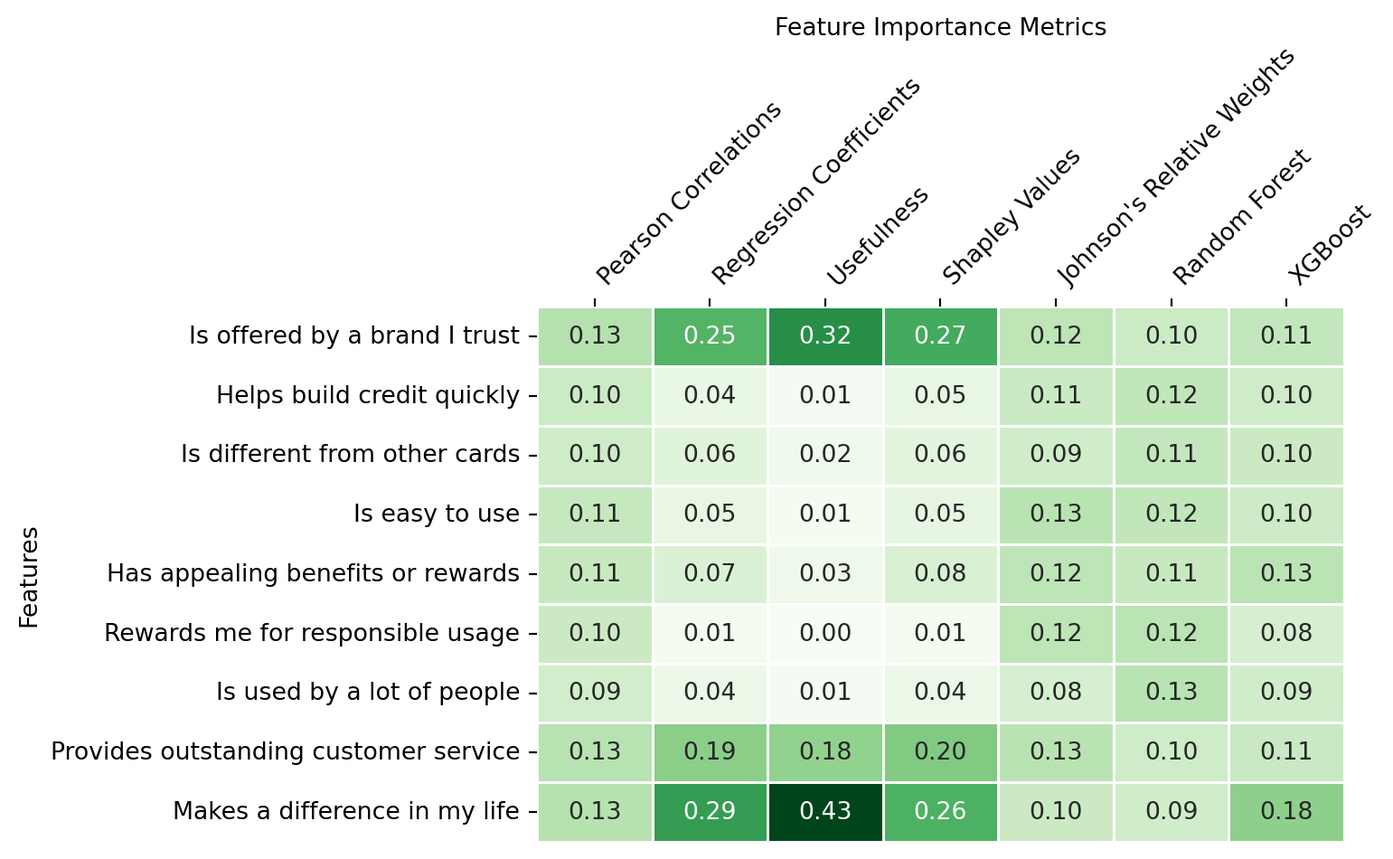
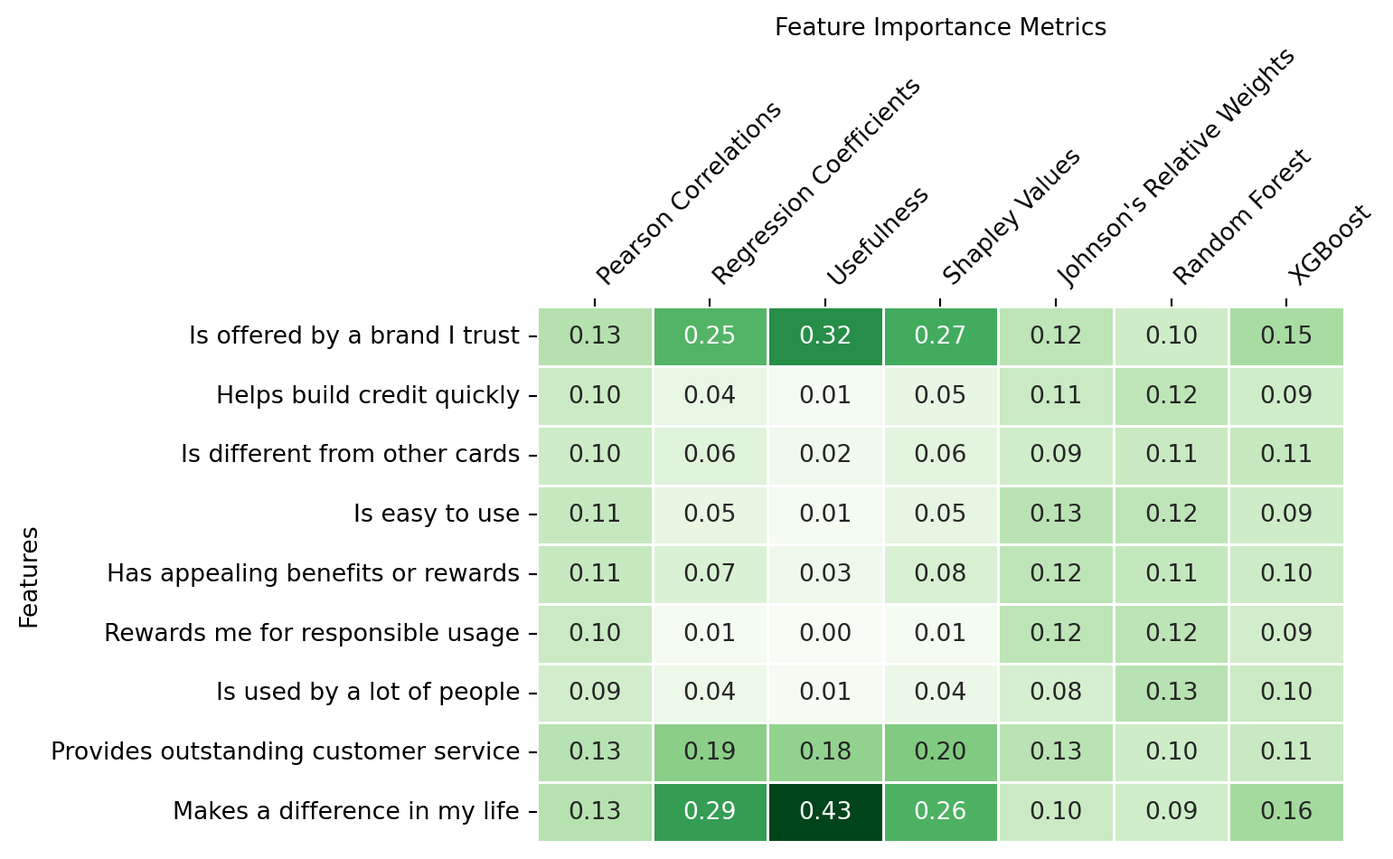
HW4 Refactoring

Changed region(s): [[0.8722, 0.3358, 0.9656, 0.4274], [0.9033, 0.7937, 0.9345, 0.8242], [0.9033, 0.58, 0.9345, 0.6105]]

diff --git a/docs/projects/project4/index.html b/docs/projects/project4/index.html
@@ -7,7 +7,7 @@
 <meta name="viewport" content="width=device-width, initial-scale=1.0, user-scalable=yes">
 
 <meta name="author" content="Robin Reese">
-<meta name="dcterms.date" content="2024-05-26">
+<meta name="dcterms.date" content="2024-05-29">
 
 <title>Robin Reese - Variable Importance</title>
 <style>
@@ -176,7 +176,7 @@ pre > code.sourceCode > span > a:first-child::before { text-decoration: underlin
     <div>
     <div class="quarto-title-meta-heading">Published</div>
     <div class="quarto-title-meta-contents">
-      <p class="date">May 26, 2024</p>
+      <p class="date">May 29, 2024</p>
     </div>
   </div>
   
@@ -191,23 +191,24 @@ pre > code.sourceCode > span > a:first-child::before { text-decoration: underlin
 <p>Variable, or feature, importance in data anyltics refers to a set of metrics that indicate how important different predicitors are in contributing to the accuracy of a predictive model. Variable importance allows for (1) model simplification, (2) interpretability, and (3) eventual resouce allocation if the model is taken to an operational setting.</p>
 <p>Today we’ll look at survey data regarding features of credit cards. Our goal is to measure variable importance in a number of different ways in order to better interpret how certain features of the credit cards influence overall customer satisfaction. To accomplish this we’ll calculate and compare Pearson correlations, regression coefficients, “usefullness”, Shapley values, Johnson’s relative weights, the mean decrease in the gini coefficient from a random forest, and XGBoost feature importance.</p>
 <p>The first step, as always, is to import the various libraries needed and load the dataset.</p>
-<div id="2a210766" class="cell" data-execution_count="1">
+<div id="c12a789f" class="cell" data-execution_count="1">
 <div class="sourceCode cell-code" id="cb1"><pre class="sourceCode python code-with-copy"><code class="sourceCode python"><span id="cb1-1"><a href="#cb1-1" aria-hidden="true" tabindex="-1"></a><span class="co"># Imports</span></span>
 <span id="cb1-2"><a href="#cb1-2" aria-hidden="true" tabindex="-1"></a><span class="im">import</span> pandas <span class="im">as</span> pd</span>
 <span id="cb1-3"><a href="#cb1-3" aria-hidden="true" tabindex="-1"></a><span class="im">import</span> numpy <span class="im">as</span> np</span>
 <span id="cb1-4"><a href="#cb1-4" aria-hidden="true" tabindex="-1"></a><span class="im">from</span> sklearn.linear_model <span class="im">import</span> LinearRegression</span>
 <span id="cb1-5"><a href="#cb1-5" aria-hidden="true" tabindex="-1"></a><span class="im">from</span> sklearn.preprocessing <span class="im">import</span> StandardScaler</span>
-<span id="cb1-6"><a href="#cb1-6" aria-hidden="true" tabindex="-1"></a><span class="im">from</span> sklearn.ensemble <span class="im">import</span> RandomForestClassifier</span>
-<span id="cb1-7"><a href="#cb1-7" aria-hidden="true" tabindex="-1"></a><span class="im">from</span> xgboost <span class="im">import</span> XGBClassifier</span>
-<span id="cb1-8"><a href="#cb1-8" aria-hidden="true" tabindex="-1"></a><span class="im">from</span> sklearn.model_selection <span class="im">import</span> train_test_split</span>
-<span id="cb1-9"><a href="#cb1-9" aria-hidden="true" tabindex="-1"></a><span class="im">import</span> statsmodels.api <span class="im">as</span> sm</span>
-<span id="cb1-10"><a href="#cb1-10" aria-hidden="true" tabindex="-1"></a><span class="im">import</span> shap</span>
-<span id="cb1-11"><a href="#cb1-11" aria-hidden="true" tabindex="-1"></a><span class="im">import</span> seaborn <span class="im">as</span> sns</span>
-<span id="cb1-12"><a href="#cb1-12" aria-hidden="true" tabindex="-1"></a><span class="im">import</span> matplotlib.pyplot <span class="im">as</span> plt</span>
-<span id="cb1-13"><a href="#cb1-13" aria-hidden="true" tabindex="-1"></a></span>
-<span id="cb1-14"><a href="#cb1-14" aria-hidden="true" tabindex="-1"></a><span class="co"># Load the data</span></span>
-<span id="cb1-15"><a href="#cb1-15" aria-hidden="true" tabindex="-1"></a>data <span class="op">=</span> pd.read_csv(<span class="st">'data_for_drivers_analysis.csv'</span>)</span>
-<span id="cb1-16"><a href="#cb1-16" aria-hidden="true" tabindex="-1"></a>data.head()</span></code><button title="Copy to Clipboard" class="code-copy-button"><i class="bi"></i></button></pre></div>
+<span id="cb1-6"><a href="#cb1-6" aria-hidden="true" tabindex="-1"></a><span class="im">from</span> sklearn.tree <span class="im">import</span> DecisionTreeRegressor</span>
+<span id="cb1-7"><a href="#cb1-7" aria-hidden="true" tabindex="-1"></a><span class="im">from</span> sklearn.ensemble <span class="im">import</span> RandomForestClassifier</span>
+<span id="cb1-8"><a href="#cb1-8" aria-hidden="true" tabindex="-1"></a><span class="im">from</span> xgboost <span class="im">import</span> XGBClassifier</span>
+<span id="cb1-9"><a href="#cb1-9" aria-hidden="true" tabindex="-1"></a><span class="im">from</span> sklearn.model_selection <span class="im">import</span> train_test_split</span>
+<span id="cb1-10"><a href="#cb1-10" aria-hidden="true" tabindex="-1"></a><span class="im">import</span> statsmodels.api <span class="im">as</span> sm</span>
+<span id="cb1-11"><a href="#cb1-11" aria-hidden="true" tabindex="-1"></a><span class="im">import</span> shap</span>
+<span id="cb1-12"><a href="#cb1-12" aria-hidden="true" tabindex="-1"></a><span class="im">import</span> seaborn <span class="im">as</span> sns</span>
+<span id="cb1-13"><a href="#cb1-13" aria-hidden="true" tabindex="-1"></a><span class="im">import</span> matplotlib.pyplot <span class="im">as</span> plt</span>
+<span id="cb1-14"><a href="#cb1-14" aria-hidden="true" tabindex="-1"></a></span>
+<span id="cb1-15"><a href="#cb1-15" aria-hidden="true" tabindex="-1"></a><span class="co"># Load the data</span></span>
+<span id="cb1-16"><a href="#cb1-16" aria-hidden="true" tabindex="-1"></a>data <span class="op">=</span> pd.read_csv(<span class="st">'data_for_drivers_analysis.csv'</span>)</span>
+<span id="cb1-17"><a href="#cb1-17" aria-hidden="true" tabindex="-1"></a>data.head()</span></code><button title="Copy to Clipboard" class="code-copy-button"><i class="bi"></i></button></pre></div>
 <div class="cell-output cell-output-display" data-execution_count="1">
 <div>
 
@@ -312,7 +313,7 @@ pre > code.sourceCode > span > a:first-child::before { text-decoration: underlin
 </div>
 </div>
 </div>
-<div id="cdf86e0f" class="cell" data-execution_count="2">
+<div id="fc234c03" class="cell" data-execution_count="2">
 <div class="sourceCode cell-code" id="cb2"><pre class="sourceCode python code-with-copy"><code class="sourceCode python"><span id="cb2-1"><a href="#cb2-1" aria-hidden="true" tabindex="-1"></a><span class="bu">print</span>(data.shape)</span>
 <span id="cb2-2"><a href="#cb2-2" aria-hidden="true" tabindex="-1"></a><span class="bu">print</span>(data.dtypes)</span>
 <span id="cb2-3"><a href="#cb2-3" aria-hidden="true" tabindex="-1"></a><span class="bu">print</span>(data.nunique())</span></code><button title="Copy to Clipboard" class="code-copy-button"><i class="bi"></i></button></pre></div>
@@ -359,7 +360,7 @@ dtype: int64</code></pre>
 <li>Makes a difference in my life</li>
 </ul>
 <p>In order to analyze the data we’ll separate the X and y variables. X will be the various features with binary outcomes wheras y is the dependent variable, satisfaction.</p>
-<div id="d5263a97" class="cell" data-execution_count="3">
+<div id="62f5cea0" class="cell" data-execution_count="3">
 <div class="sourceCode cell-code" id="cb4"><pre class="sourceCode python code-with-copy"><code class="sourceCode python"><span id="cb4-1"><a href="#cb4-1" aria-hidden="true" tabindex="-1"></a><span class="co"># Define the binary columns and the target column</span></span>
 <span id="cb4-2"><a href="#cb4-2" aria-hidden="true" tabindex="-1"></a>binary_columns <span class="op">=</span> [<span class="st">'trust'</span>, <span class="st">'build'</span>, <span class="st">'differs'</span>, <span class="st">'easy'</span>, <span class="st">'appealing'</span>, <span class="st">'rewarding'</span>, <span class="st">'popular'</span>, <span class="st">'service'</span>, <span class="st">'impact'</span>]</span>
 <span id="cb4-3"><a href="#cb4-3" aria-hidden="true" tabindex="-1"></a>target_column <span class="op">=</span> <span class="st">'satisfaction'</span></span>
@@ -368,7 +369,10 @@ dtype: int64</code></pre>
 <span id="cb4-6"><a href="#cb4-6" aria-hidden="true" tabindex="-1"></a>y <span class="op">=</span> data[target_column]</span>
 <span id="cb4-7"><a href="#cb4-7" aria-hidden="true" tabindex="-1"></a></span>
 <span id="cb4-8"><a href="#cb4-8" aria-hidden="true" tabindex="-1"></a><span class="co"># Adding constant for regression model in statsmodels</span></span>
-<span id="cb4-9"><a href="#cb4-9" aria-hidden="true" tabindex="-1"></a>X_const <span class="op">=</span> sm.add_constant(X)</span></code><button title="Copy to Clipboard" class="code-copy-button"><i class="bi"></i></button></pre></div>
+<span id="cb4-9"><a href="#cb4-9" aria-hidden="true" tabindex="-1"></a>X_const <span class="op">=</span> sm.add_constant(X)</span>
+<span id="cb4-10"><a href="#cb4-10" aria-hidden="true" tabindex="-1"></a></span>
+<span id="cb4-11"><a href="#cb4-11" aria-hidden="true" tabindex="-1"></a><span class="co"># Creating the test and train sets</span></span>
+<span id="cb4-12"><a href="#cb4-12" aria-hidden="true" tabindex="-1"></a>X_train, X_test, y_train, y_test <span class="op">=</span> train_test_split(X, y, test_size<span class="op">=</span><span class="fl">0.2</span>, random_state<span class="op">=</span><span class="dv">42</span>)</span></code><button title="Copy to Clipboard" class="code-copy-button"><i class="bi"></i></button></pre></div>
 </div>
 <section id="pearson-correlation" class="level4">
 <h4 class="anchored" data-anchor-id="pearson-correlation">Pearson Correlation</h4>
@@ -376,7 +380,7 @@ dtype: int64</code></pre>
 r = \frac{\sum (X - \bar{X})(Y - \bar{Y})}{\sqrt{\sum (X - \bar{X})^2 \sum (Y - \bar{Y})^2}}
 \]</span></p>
 <p>Pearson correlation measures the linear correlation between each independent variable and the target variable. A Pearson correlation coefficient ranges from -1 to +1, where +1 indicates a perfect positive linear relationship, -1 indicates a perfect negative linear relationship, and 0 indicates no linear relationship. This method is straightforward and widely used for preliminary analysis to gauge linear associations but does not capture non-linear relationships or interactions between features.</p>
-<div id="ee67fbe2" class="cell" data-execution_count="4">
+<div id="6a120d0e" class="cell" data-execution_count="4">
 <div class="sourceCode cell-code" id="cb5"><pre class="sourceCode python code-with-copy"><code class="sourceCode python"><span id="cb5-1"><a href="#cb5-1" aria-hidden="true" tabindex="-1"></a><span class="co"># Pearson Correlations</span></span>
 <span id="cb5-2"><a href="#cb5-2" aria-hidden="true" tabindex="-1"></a>pearson_corr <span class="op">=</span> X.<span class="bu">apply</span>(<span class="kw">lambda</span> x: x.corr(data[target_column]))</span></code><button title="Copy to Clipboard" class="code-copy-button"><i class="bi"></i></button></pre></div>
 </div>
@@ -388,7 +392,7 @@ r = \frac{\sum (X - \bar{X})(Y - \bar{Y})}{\sqrt{\sum (X - \bar{X})^2 \sum (Y - 
 Y = \beta_0 + \beta_1 X_1 + \beta_2 X_2 + \cdots + \beta_n X_n + \epsilon
 \]</span></p>
 <p>Derived from fitting a linear regression model, these coefficients quantify the expected change in the target variable for a one-unit change in the predictor variable, assuming other variables are held constant. Regression coefficients are useful for understanding the direct impact of each predictor in a linear context. However, like Pearson correlations, it’s limited to linear effects and may be misleading in the presence of multicollinearity.</p>
-<div id="16bed5d1" class="cell" data-execution_count="5">
+<div id="b101db36" class="cell" data-execution_count="5">
 <div class="sourceCode cell-code" id="cb6"><pre class="sourceCode python code-with-copy"><code class="sourceCode python"><span id="cb6-1"><a href="#cb6-1" aria-hidden="true" tabindex="-1"></a><span class="co"># Linear Regression for regression coefficients</span></span>
 <span id="cb6-2"><a href="#cb6-2" aria-hidden="true" tabindex="-1"></a>model <span class="op">=</span> sm.OLS(y, X_const).fit()</span>
 <span id="cb6-3"><a href="#cb6-3" aria-hidden="true" tabindex="-1"></a>regression_coefficients <span class="op">=</span> model.params.drop(<span class="st">'const'</span>)</span></code><button title="Copy to Clipboard" class="code-copy-button"><i class="bi"></i></button></pre></div>
@@ -400,7 +404,7 @@ Y = \beta_0 + \beta_1 X_1 + \beta_2 X_2 + \cdots + \beta_n X_n + \epsilon
 \text{Usefulness}_j = R^2_{\text{full model}} - R^2_{\text{model without } X_j}
 \]</span></p>
 <p>The concept of “usefulness” in the context of regression analysis is a method of quantifying the importance of each predictor variable by evaluating the impact of removing each variable from the model. It measures how much the overall model’s explanatory power, typically quantified by the 𝑅^2 value, decreases when a specific feature is omitted.</p>
-<div id="2c9182ea" class="cell" data-execution_count="6">
+<div id="87b9c1d5" class="cell" data-execution_count="6">
 <div class="sourceCode cell-code" id="cb7"><pre class="sourceCode python code-with-copy"><code class="sourceCode python"><span id="cb7-1"><a href="#cb7-1" aria-hidden="true" tabindex="-1"></a><span class="co"># Calculate changes in R² (usefulness)</span></span>
 <span id="cb7-2"><a href="#cb7-2" aria-hidden="true" tabindex="-1"></a>full_r_squared <span class="op">=</span> model.rsquared</span>
 <span id="cb7-3"><a href="#cb7-3" aria-hidden="true" tabindex="-1"></a>usefulness <span class="op">=</span> {}</span>
@@ -416,7 +420,7 @@ Y = \beta_0 + \beta_1 X_1 + \beta_2 X_2 + \cdots + \beta_n X_n + \epsilon
 \phi_i = \sum_{S \subseteq N \setminus \{i\}} \frac{|S|! (|N|-|S|-1)!}{|N|!} (v(S \cup \{i\}) - v(S))
 \]</span> where (S) is a subset of all features except (i), (N) is the set of all features, and (v(S)) is the prediction model output with features in set (S).</p>
 <p>Shapley values measure the contribution of each feature to the prediction of a model at the individual instance level. This method provides a detailed and nuanced explanation of how each feature in a dataset influences the model’s predictions, allowing for a deep understanding of model behavior, which is especially valuable in complex models where interactions and non-linearities are present.</p>
-<div id="b2dd9bd4" class="cell" data-execution_count="7">
+<div id="b83fdfed" class="cell" data-execution_count="7">
 <div class="sourceCode cell-code" id="cb8"><pre class="sourceCode python code-with-copy"><code class="sourceCode python"><span id="cb8-1"><a href="#cb8-1" aria-hidden="true" tabindex="-1"></a><span class="co"># Shapley Values using Linear Regression model</span></span>
 <span id="cb8-2"><a href="#cb8-2" aria-hidden="true" tabindex="-1"></a>model <span class="op">=</span> LinearRegression().fit(X, y)</span>
 <span id="cb8-3"><a href="#cb8-3" aria-hidden="true" tabindex="-1"></a>explainer <span class="op">=</span> shap.Explainer(model, X)</span>
@@ -430,7 +434,7 @@ Y = \beta_0 + \beta_1 X_1 + \beta_2 X_2 + \cdots + \beta_n X_n + \epsilon
 \text{Relative Weights} = \frac{V^2 \times \lambda}{\sum (V^2 \times \lambda)}
 \]</span></p>
 <p>This method involves an eigen decomposition of the correlation matrix of the predictors and calculates the proportionate contribution of each predictor to the R² of a regression model. It effectively parses out each variable’s importance, taking into account multicollinearity.</p>
-<div id="1dadf339" class="cell" data-execution_count="8">
+<div id="6efe6e90" class="cell" data-execution_count="8">
 <div class="sourceCode cell-code" id="cb9"><pre class="sourceCode python code-with-copy"><code class="sourceCode python"><span id="cb9-1"><a href="#cb9-1" aria-hidden="true" tabindex="-1"></a><span class="co"># Johnson's Relative Weights </span></span>
 <span id="cb9-2"><a href="#cb9-2" aria-hidden="true" tabindex="-1"></a>corr_matrix <span class="op">=</span> np.corrcoef(X, rowvar<span class="op">=</span><span class="va">False</span>)</span>
 <span id="cb9-3"><a href="#cb9-3" aria-hidden="true" tabindex="-1"></a>eigenvalues, eigenvectors <span class="op">=</span> np.linalg.eig(corr_matrix)</span>
@@ -445,12 +449,11 @@ Y = \beta_0 + \beta_1 X_1 + \beta_2 X_2 + \cdots + \beta_n X_n + \epsilon
 \text{Importance} = \frac{\text{Total Decrease in Impurity caused by feature } X}{\text{all splits}}
 \]</span></p>
 <p>This method is excellent for capturing non-linear relationships and interactions without any assumptions about data distribution, and it is robust to outliers and scale of features.</p>
-<div id="865a4033" class="cell" data-execution_count="9">
+<div id="25a91cb5" class="cell" data-execution_count="9">
 <div class="sourceCode cell-code" id="cb10"><pre class="sourceCode python code-with-copy"><code class="sourceCode python"><span id="cb10-1"><a href="#cb10-1" aria-hidden="true" tabindex="-1"></a><span class="co"># Random Forest for feature importance</span></span>
-<span id="cb10-2"><a href="#cb10-2" aria-hidden="true" tabindex="-1"></a>X_train, X_test, y_train, y_test <span class="op">=</span> train_test_split(X, y, test_size<span class="op">=</span><span class="fl">0.2</span>, random_state<span class="op">=</span><span class="dv">42</span>)</span>
-<span id="cb10-3"><a href="#cb10-3" aria-hidden="true" tabindex="-1"></a>rf <span class="op">=</span> RandomForestClassifier(n_estimators<span class="op">=</span><span class="dv">1000</span>, random_state<span class="op">=</span><span class="dv">42</span>)</span>
-<span id="cb10-4"><a href="#cb10-4" aria-hidden="true" tabindex="-1"></a>rf.fit(X_train, y_train)</span>
-<span id="cb10-5"><a href="#cb10-5" aria-hidden="true" tabindex="-1"></a>rf_importances <span class="op">=</span> rf.feature_importances_</span></code><button title="Copy to Clipboard" class="code-copy-button"><i class="bi"></i></button></pre></div>
+<span id="cb10-2"><a href="#cb10-2" aria-hidden="true" tabindex="-1"></a>rf <span class="op">=</span> RandomForestClassifier(n_estimators<span class="op">=</span><span class="dv">2500</span>, random_state<span class="op">=</span><span class="dv">42</span>, criterion<span class="op">=</span><span class="st">'gini'</span>)</span>
+<span id="cb10-3"><a href="#cb10-3" aria-hidden="true" tabindex="-1"></a>rf.fit(X, y)</span>
+<span id="cb10-4"><a href="#cb10-4" aria-hidden="true" tabindex="-1"></a>rf_importances <span class="op">=</span> rf.feature_importances_</span></code><button title="Copy to Clipboard" class="code-copy-button"><i class="bi"></i></button></pre></div>
 </div>
 </section>
 <section id="xgboost" class="level4">
@@ -459,16 +462,15 @@ Y = \beta_0 + \beta_1 X_1 + \beta_2 X_2 + \cdots + \beta_n X_n + \epsilon
 \text{Gain} = \frac{\text{Total Gain of splits using feature } X}{\text{all splits using feature } X}
 \]</span></p>
 <p>The importance is computed for each feature at each split in each tree and averaged across all trees.</p>
-<div id="23623e52" class="cell" data-execution_count="10">
+<div id="b8d98c46" class="cell" data-execution_count="10">
 <div class="sourceCode cell-code" id="cb11"><pre class="sourceCode python code-with-copy"><code class="sourceCode python"><span id="cb11-1"><a href="#cb11-1" aria-hidden="true" tabindex="-1"></a><span class="co"># XGBoost Model</span></span>
-<span id="cb11-2"><a href="#cb11-2" aria-hidden="true" tabindex="-1"></a>y_train_adjusted <span class="op">=</span> y_train <span class="op">-</span> <span class="dv">1</span></span>
-<span id="cb11-3"><a href="#cb11-3" aria-hidden="true" tabindex="-1"></a>y_test_adjusted <span class="op">=</span> y_test <span class="op">-</span> <span class="dv">1</span></span>
-<span id="cb11-4"><a href="#cb11-4" aria-hidden="true" tabindex="-1"></a>xgb_model <span class="op">=</span> XGBClassifier(use_label_encoder<span class="op">=</span><span class="va">False</span>, eval_metric<span class="op">=</span><span class="st">'mlogloss'</span>)</span>
-<span id="cb11-5"><a href="#cb11-5" aria-hidden="true" tabindex="-1"></a>xgb_model.fit(X_train, y_train_adjusted)</span>
-<span id="cb11-6"><a href="#cb11-6" aria-hidden="true" tabindex="-1"></a>xgb_importances <span class="op">=</span> xgb_model.feature_importances_</span></code><button title="Copy to Clipboard" class="code-copy-button"><i class="bi"></i></button></pre></div>
+<span id="cb11-2"><a href="#cb11-2" aria-hidden="true" tabindex="-1"></a>y_adjusted <span class="op">=</span> y <span class="op">-</span> <span class="dv">1</span></span>
+<span id="cb11-3"><a href="#cb11-3" aria-hidden="true" tabindex="-1"></a>xgb_model <span class="op">=</span> XGBClassifier(use_label_encoder<span class="op">=</span><span class="va">False</span>, eval_metric<span class="op">=</span><span class="st">'mlogloss'</span>)</span>
+<span id="cb11-4"><a href="#cb11-4" aria-hidden="true" tabindex="-1"></a>xgb_model.fit(X, y_adjusted)</span>
+<span id="cb11-5"><a href="#cb11-5" aria-hidden="true" tabindex="-1"></a>xgb_importances <span class="op">=</span> xgb_model.feature_importances_</span></code><button title="Copy to Clipboard" class="code-copy-button"><i class="bi"></i></button></pre></div>
 </div>
 <p>In order to finalize the comparison, each variable importance will be plotted side by side. For any methods which do not sum to 100%, we’ll normalize the output to better visualize the relative percentage of importance to customer satisfaction.</p>
-<div id="7ec3b185" class="cell" data-execution_count="11">
+<div id="121cf1bb" class="cell" data-execution_count="11">
 <div class="sourceCode cell-code" id="cb12"><pre class="sourceCode python code-with-copy"><code class="sourceCode python"><span id="cb12-1"><a href="#cb12-1" aria-hidden="true" tabindex="-1"></a><span class="co"># Creating DataFrame</span></span>
 <span id="cb12-2"><a href="#cb12-2" aria-hidden="true" tabindex="-1"></a>summary_df <span class="op">=</span> pd.DataFrame({</span>
 <span id="cb12-3"><a href="#cb12-3" aria-hidden="true" tabindex="-1"></a>    <span class="st">'Pearson Correlations'</span>: pearson_corr,</span>
@@ -487,7 +489,7 @@ Y = \beta_0 + \beta_1 X_1 + \beta_2 X_2 + \cdots + \beta_n X_n + \epsilon
 <span id="cb12-16"><a href="#cb12-16" aria-hidden="true" tabindex="-1"></a>summary_df[<span class="st">'Shapley Values'</span>] <span class="op">/=</span> summary_df[<span class="st">'Shapley Values'</span>].<span class="bu">sum</span>()</span>
 <span id="cb12-17"><a href="#cb12-17" aria-hidden="true" tabindex="-1"></a>summary_df[<span class="st">'XGBoost'</span>] <span class="op">/=</span> summary_df[<span class="st">'XGBoost'</span>].<span class="bu">sum</span>()</span></code><button title="Copy to Clipboard" class="code-copy-button"><i class="bi"></i></button></pre></div>
 </div>
-<div id="812e7316" class="cell" data-execution_count="12">
+<div id="4e144faa" class="cell" data-execution_count="12">
 <div class="sourceCode cell-code" id="cb13"><pre class="sourceCode python code-with-copy"><code class="sourceCode python"><span id="cb13-1"><a href="#cb13-1" aria-hidden="true" tabindex="-1"></a><span class="co"># Plotting summary_df as a heatmap</span></span>
 <span id="cb13-2"><a href="#cb13-2" aria-hidden="true" tabindex="-1"></a>descriptions <span class="op">=</span> {</span>
 <span id="cb13-3"><a href="#cb13-3" aria-hidden="true" tabindex="-1"></a>    <span class="st">'trust'</span>: <span class="st">'Is offered by a brand I trust'</span>,</span>

diff --git a/docs/projects.html b/docs/projects.html
@@ -174,7 +174,7 @@ ul.task-list li input[type="checkbox"] {
 
 <div class="quarto-listing quarto-listing-container-grid" id="listing-listing">
 <div class="list grid quarto-listing-cols-3">
-<div class="g-col-1" data-index="0" data-listing-date-sort="1716706800000" data-listing-file-modified-sort="1713147505003" data-listing-date-modified-sort="NaN" data-listing-reading-time-sort="34" data-listing-word-count-sort="6718">
+<div class="g-col-1" data-index="0" data-listing-date-sort="1716966000000" data-listing-file-modified-sort="1713147505003" data-listing-date-modified-sort="NaN" data-listing-reading-time-sort="34" data-listing-word-count-sort="6718">
 <a href="./projects/project1/index.html" class="quarto-grid-link">
 <div class="quarto-grid-item card h-100 card-left">
 <p class="card-img-top"><img src="projects/project1/index_files/figure-html/cell-5-output-1.png" style="height: 150px;"  class="thumbnail-image card-img"/></p>
@@ -190,14 +190,14 @@ Dean Karlan at Yale and John List at the University of Chicago conducted a field
 Robin Reese
 </div>
 <div class="listing-date">
-May 26, 2024
+May 29, 2024
 </div>
 </div>
 </div>
 </div>
 </a>
 </div>
-<div class="g-col-1" data-index="1" data-listing-date-sort="1716706800000" data-listing-file-modified-sort="1714436144758" data-listing-date-modified-sort="NaN" data-listing-reading-time-sort="14" data-listing-word-count-sort="2683">
+<div class="g-col-1" data-index="1" data-listing-date-sort="1716966000000" data-listing-file-modified-sort="1714436144758" data-listing-date-modified-sort="NaN" data-listing-reading-time-sort="14" data-listing-word-count-sort="2683">
 <a href="./projects/project2/index.html" class="quarto-grid-link">
 <div class="quarto-grid-item card h-100 card-left">
 <p class="card-img-top"><img src="projects/project2/index_files/figure-html/cell-3-output-1.png" style="height: 150px;"  class="thumbnail-image card-img"/></p>
@@ -213,14 +213,14 @@ Blueprinty is a small firm that makes software for developing blueprints specifi
 Robin Reese
 </div>
 <div class="listing-date">
-May 26, 2024
+May 29, 2024
 </div>
 </div>
 </div>
 </div>
 </a>
 </div>
-<div class="g-col-1" data-index="2" data-listing-date-sort="1716706800000" data-listing-file-modified-sort="1715910892794" data-listing-date-modified-sort="NaN" data-listing-reading-time-sort="17" data-listing-word-count-sort="3337">
+<div class="g-col-1" data-index="2" data-listing-date-sort="1716966000000" data-listing-file-modified-sort="1715910892794" data-listing-date-modified-sort="NaN" data-listing-reading-time-sort="17" data-listing-word-count-sort="3337">
 <a href="./projects/project3/index.html" class="quarto-grid-link">
 <div class="quarto-grid-item card h-100 card-left">
 <div class="listing-item-img-placeholder card-img-top" style="height: 150px;">&nbsp;</div>
@@ -236,14 +236,14 @@ This project uses the MNL model to analyze (1) yogurt purchase data made by cons
 Robin Reese
 </div>
 <div class="listing-date">
-May 26, 2024
+May 29, 2024
 </div>
 </div>
 </div>
 </div>
 </a>
 </div>
-<div class="g-col-1" data-index="3" data-listing-date-sort="1716706800000" data-listing-file-modified-sort="1716759168695" data-listing-date-modified-sort="NaN" data-listing-reading-time-sort="7" data-listing-word-count-sort="1272">
+<div class="g-col-1" data-index="3" data-listing-date-sort="1716966000000" data-listing-file-modified-sort="1717039940409" data-listing-date-modified-sort="NaN" data-listing-reading-time-sort="8" data-listing-word-count-sort="1504">
 <a href="./projects/project4/index.html" class="quarto-grid-link">
 <div class="quarto-grid-item card h-100 card-left">
 <p class="card-img-top"><img src="projects/project4/index_files/figure-html/cell-13-output-1.png" style="height: 150px;"  class="thumbnail-image card-img"/></p>
@@ -259,7 +259,7 @@ Variable, or feature, importance in data anyltics refers to a set of metrics tha
 Robin Reese
 </div>
 <div class="listing-date">
-May 26, 2024
+May 29, 2024
 </div>
 </div>
 </div>

diff --git a/projects/project4/.vdoc.py b/projects/project4/.vdoc.py
@@ -25,6 +25,7 @@ import pandas as pd
 import numpy as np
 from sklearn.linear_model import LinearRegression
 from sklearn.preprocessing import StandardScaler
+from sklearn.tree import DecisionTreeRegressor
 from sklearn.ensemble import RandomForestClassifier
 from xgboost import XGBClassifier
 from sklearn.model_selection import train_test_split
@@ -68,6 +69,9 @@ y = data[target_column]
 
 # Adding constant for regression model in statsmodels
 X_const = sm.add_constant(X)
+
+# Creating the test and train sets
+X_train, X_test, y_train, y_test = train_test_split(X, y, test_size=0.2, random_state=42)
 #
 #
 #
@@ -82,6 +86,10 @@ X_const = sm.add_constant(X)
 #
 # Pearson Correlations
 pearson_corr = X.apply(lambda x: x.corr(data[target_column]))
+#
+#
+#
+#
 #
 #
 #
@@ -128,10 +136,12 @@ usefulness_series = pd.Series(usefulness)
 #
 #
 # Shapley Values using Linear Regression model
-model = LinearRegression().fit(X, y)
-explainer = shap.Explainer(model, X)
-shap_values = explainer(X)
-mean_shap_values = pd.DataFrame(shap_values.values, columns=binary_columns).abs().mean().values
+model = DecisionTreeRegressor()
+model.fit(X_train, y_train)
+explainer = shap.Explainer(model, X_train)
+shap_values = explainer(X_test)
+shap_values_df = pd.DataFrame(shap_values.values, columns=binary_columns)
+mean_shap_values = shap_values_df.abs().mean().values
 #
 #
 #
@@ -163,9 +173,8 @@ relative_weights = rel_weights / rel_weights.sum()
 #
 #
 # Random Forest for feature importance
-X_train, X_test, y_train, y_test = train_test_split(X, y, test_size=0.2, random_state=42)
-rf = RandomForestClassifier(n_estimators=1000, random_state=42)
-rf.fit(X_train, y_train)
+rf = RandomForestClassifier(n_estimators=2500, random_state=42, criterion='gini')
+rf.fit(X, y)
 rf_importances = rf.feature_importances_
 #
 #
@@ -180,10 +189,9 @@ rf_importances = rf.feature_importances_
 #
 #
 # XGBoost Model
-y_train_adjusted = y_train - 1
-y_test_adjusted = y_test - 1
+y_adjusted = y - 1
 xgb_model = XGBClassifier(use_label_encoder=False, eval_metric='mlogloss')
-xgb_model.fit(X_train, y_train_adjusted)
+xgb_model.fit(X, y_adjusted)
 xgb_importances = xgb_model.feature_importances_
 #
 #
@@ -236,7 +244,9 @@ plt.show()
 #
 #
 #
-
+#
+#
+#
 #
 #
 #
